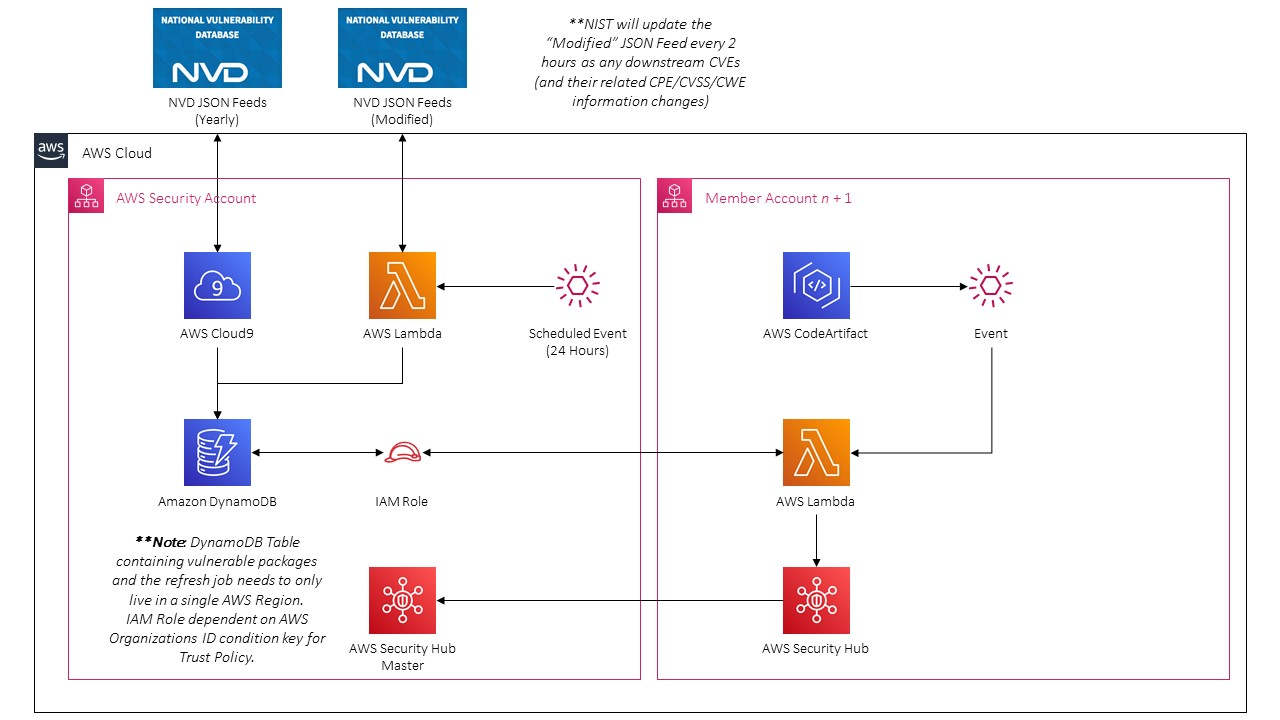
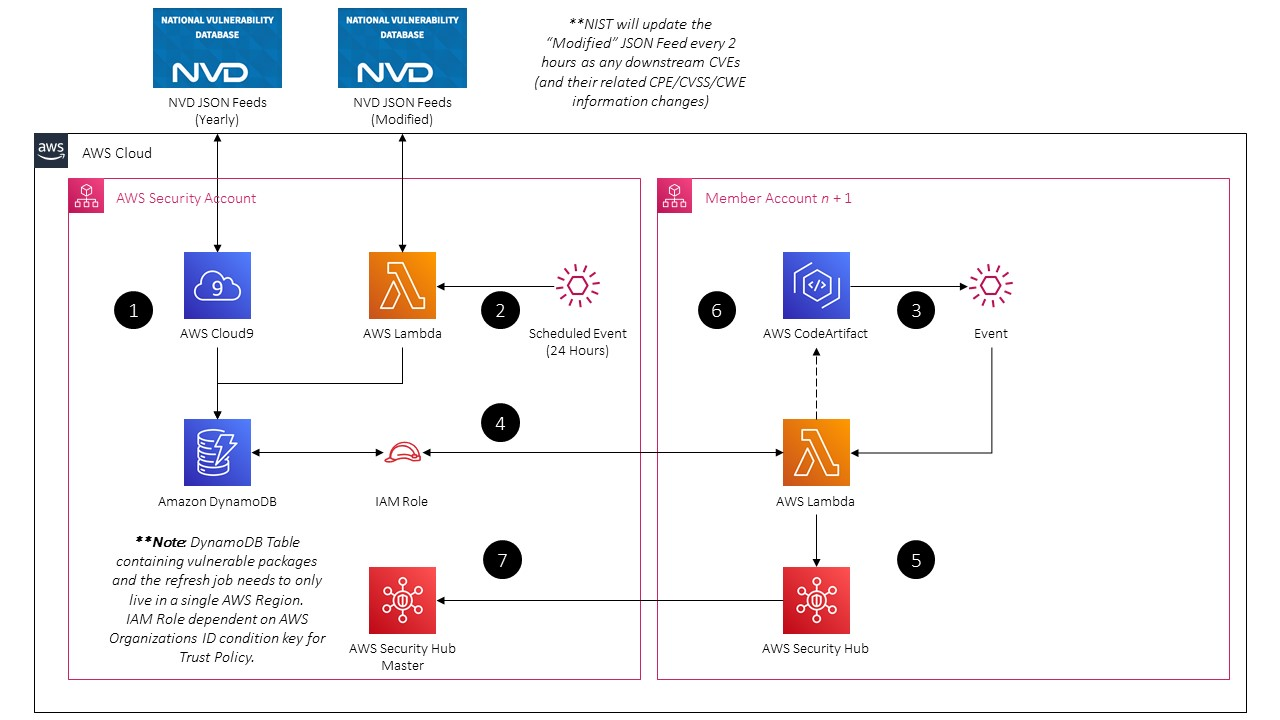
Updating the readme again

diff --git a/README.md b/README.md
@@ -1,10 +1,23 @@
-# CodeArtifactVulnScanner
+# CodeArtifactVulnScanner (OpenCAVS)
 
-AWS native Static Application Security Testing (SAST) utility to find and eradicate vulnerable packages stored in AWS CodeArtifact. Built for real-time and periodic mulit-Account/multi-Region action.
+AWS native Static Application Security Testing (SAST) utility to find and eradicate vulnerable software packages stored in AWS CodeArtifact. Built for both real-time distributed and centralized deployments.
 
 ## Table of Contents
 
-TODO: Implement
+TODO: Fix Links
+
+- Synopsis
+- Solution Architecture
+  - Centralized Deployment (Single-Account / Single-Region)
+  - Distributed Deployment (Multi-Account / Multi-Region)
+- Description
+- Limitations & Caveats
+- Prerequisites
+- Centralized CodeArtifact Setup (Single-Account / Single-Region)
+- Distributed CodeArtifact Setup (Multi-Account / Multi-Region)
+- FAQ
+- Contributing
+- License
 
 ## Synopsis
 
@@ -28,17 +41,33 @@ TODO: Add Steps
 
 ![Distributed Architecture](./screenshots/distributed-repository-architecture.jpg)
 
+The following steps describe the event flows for a Distributed setup. The **Security** Account note describes the AWS Account you have the DynamoDB Table and Organization-wide IAM Role deployed to. The **Member** Account note represents many downstream Accounts in many Regions where the CloudWatch Event and Lambda Functions to detect pushes and updates to CodeArtifact are located.
+
+1. (**Security Account**) A one-time data load of all yearly NVD JSON Feed files is performed. All files are downloaded, unzipped, parsed, and loaded sequentially and the files destroyed after the setup script runs. **Note:** Ensure you have at least 1GB free on your storage volume to account for the files.
+
+2. (**Security Account**) Every 24 hours an Amazon EventBridge Scheduled Rule will invoke a Lambda Function that will downloaded the `Modified` NVD JSON Feed, unzip, parse and load items into a DyanmoDB Table. The key schema of the DynamoDB Table will ensure that updates will be overwrite their pre-existing entries, any unique combination of a Package Name, Package Version, and CVE ID will be added as a new item.
+
+3. (**Member Account**) Upon new software packages being pushed to (or updated within) CodeArtifact, an EventBridge Event will invoke a Lambda Function that will parse information about the software package, the Repository information, and other AWS-specific metadata from the Event payload.
+
+4. (**Member Account**) / (**Security Account**) The Lambda Function invoked in Step 3 will attempt to Assume a Role in the Security Account which will give it permissions to `Scan()` the DynamoDB Table to retrieve information about the Package and associated vulnerability metadata.
+
+5. (**Member Account**) If a software vulnerability is found, a finding containing information about the CVE, CVSS metadata, the software, and the owning Repository is created in the Member Account's Security Hub tenant.
+
+6. (**Member Account**) If configured, the Purging Engine within the Lambda Function invoked in Step 3 will remove the vulnerable package from CodeArtifact and an Informational finding will be created in Security Hub noting this.
+
+7. (**Security Account**) All findings (in their Home Region) are pushed transparently into the Security Hub Master account. You can use this to collect all information about purged packages and vulnerable software in your organization.
+
 TODO: Add Steps
 
 ## Description
 
-This project is an attempt at building a SAST / SCA utility meant for usage with [AWS CodeArtifact](https://docs.aws.amazon.com/codeartifact/latest/ug/welcome.html), a fully managed artifact repository service used with popular build tools and package managers such as NuGet, Maven, Gradle, npm, yarn, pip, and twine. With CodeArtifact, you can centrally store software packages to increase your resilience and software supply chain issues, vulnerabilities, reduce latency or availability concerns due to upstream repository issues, and/or provide a central repository of approved software (by license, etc.).
+OpenCAVS is an attempt at building a SAST / SCA utility meant for usage with [AWS CodeArtifact](https://docs.aws.amazon.com/codeartifact/latest/ug/welcome.html), a fully managed artifact repository service used with popular build tools and package managers such as NuGet, Maven, Gradle, npm, yarn, pip, and twine. With CodeArtifact, you can centrally store software packages to increase your resilience and software supply chain issues, vulnerabilities, reduce latency or availability concerns due to upstream repository issues, and/or provide a central repository of approved software (by license, etc.).
 
-While there can be many benefits of a centralized (by Organization, Account, or Region) code package repository, one area where AWS is gapping in is a built-in ability to assess vulnerabilities. At the time of this project being started (14 JAN 2021) there were not any commercial offerings known to the author, nor any other open-source tools, and this project attempts to fill that gap. Using native AWS Serverless tools such as DynamoDB, Lambda, and EventBridge, this solution can perform real-time software vulnerability analysis by comparing a package version against a list of vulnerable software provided by the NVD.
+While there can be many benefits of a centralized (by Organization, Account, or Region) code package repository, one area where AWS is gapping in is a built-in ability to assess vulnerabilities. At the time of OpenCAVS being started (14 JAN 2021) there were not any commercial offerings known to the author, nor any other open-source tools, and OpenCAVS attempts to fill that gap. Using native AWS Serverless tools such as DynamoDB, Lambda, and EventBridge, this solution can perform real-time software vulnerability analysis by comparing a package version against a list of vulnerable software provided by the NVD.
 
-To support users of any size, two deployment models will be offered, the *Centralized* model is meant to support CodeArtifact Domains and Repositories within a single Account and Region that may be used to support many different AWS Accounts (or mulit-tenant workloads across various VPCs/Subnets). The *Distributed* model is meant to support any number of AWS Accounts, AWS Regions, and CodeArtifact Domains and Repositories. In the *Distributed* model the vulnerable software packages will be maintained in a central security Account with an Assumable Role that "Trusts" you entire AWS Organization - in the *Centralized* model the vulnerable software packages will be maintained in the same Accounts and Regions you deploy the solution to. DynamoDB is used as the datastore due to the direct AWS Data APIs available, cheap cost, low overhead, and low latency (up to [3000 Read Consumption Units](https://docs.aws.amazon.com/amazondynamodb/latest/developerguide/Limits.html#default-limits-throughput-capacity-modes) (RCUs) before needing to use a [DynamoDB Accelerator](https://docs.aws.amazon.com/amazondynamodb/latest/developerguide/DAX.html) (DAX) cluster).
+To support users of any size, two deployment models will be offered, the *Centralized* model is meant to support CodeArtifact Domains and Repositories within a single Account and Region that may be used to support many different AWS Accounts (or multi-tenant workloads across various VPCs/Subnets). The *Distributed* model is meant to support any number of AWS Accounts, AWS Regions, and CodeArtifact Domains and Repositories. In the *Distributed* model the vulnerable software packages will be maintained in a central security Account with an Assumable Role that "Trusts" you entire AWS Organization - in the *Centralized* model the vulnerable software packages will be maintained in the same Accounts and Regions you deploy the solution to. DynamoDB is used as the datastore due to the direct AWS Data APIs available, cheap cost, low overhead, and low latency (up to [3000 Read Consumption Units](https://docs.aws.amazon.com/amazondynamodb/latest/developerguide/Limits.html#default-limits-throughput-capacity-modes) (RCUs) before needing to use a [DynamoDB Accelerator](https://docs.aws.amazon.com/amazondynamodb/latest/developerguide/DAX.html) (DAX) cluster).
 
-An optional Purging Engine will be provided for both deployment models that can remove package versions from CodeArtifact based on various inputs such as CVSSv2.0 Base Score or Severity. This can provide assurance than vulnerable software packages will be removed from your central repositories - though this is a Reponse function and not a Preventative control.
+An optional Purging Engine will be provided for both deployment models that can remove package versions from CodeArtifact based on various inputs such as CVSSv2.0 Base Score or Severity. This can provide assurance than vulnerable software packages will be removed from your central repositories - though this is a Response function and not a Preventative control.
 
 In the future, it is planned to add various other features such as Business Intelligence (BI) reporting to monitor vulnerabilities, vendors, licenses, and software version derivations. Other planned features include the ability to scan package dependencies or purge packages based on their license and/or dependencies (**Note:** dependency and license information is populated by CodeArtifact).
 
@@ -50,7 +79,7 @@ This section is meant to list out any general warnings or caveats with this solu
 
 - Due to the fact that *all* software packages is parsed (by virtue of ingested the entire NVD) - CVSSv2.0 is used for Vector Strings, Scoring, and Severity. Older CVEs, and thus packages, do not have CVSSv3.1 scoring information. This may be added in at a later date - but will require modifications to the Purging Engine.
 
-- Due to using "hacky" methods of parsing Vendors, Package Names, and Package Versions from the CPE URI information within the NVD JSON Feeds - some values that do not format to a nice `package-name.package-version` format (e.g. `python-requests:2.2`) are dropped. For instance, the bulk load and continual loads will drop a value such as `solaris:*`.
+- Due to using "hacky" methods of parsing Vendors, Package Names, and Package Versions from the CPE URI information within the NVD JSON Feeds - some values that do not format to a nice `package-name.package-version` format (e.g., `python-requests:2.2`) are dropped. For instance, the bulk load and continual loads will drop a value such as `solaris:*`.
 
 - I ***assume*** There may be mismatches between package names in CPE and what they are called by the vendor - and thus you may either get false positives or undetected vulnerabilities! There is way too much data to analyze to determine how extensive this is in reality.
 
@@ -62,83 +91,100 @@ This section is meant to list out any general warnings or caveats with this solu
 
 ## Prerequisites
 
-TODO
+- A Cloud9 IDE running Ubuntu 18.04LTS with the below IAM Policy attached as an Instance Profile for the underlying EC2 Instance. For more information on setting up a Cloud9 IDE see [here](https://docs.aws.amazon.com/cloud9/latest/user-guide/setting-up.html), and for information on attaching an IAM Instance Profile see [here](https://docs.aws.amazon.com/AWSEC2/latest/UserGuide/iam-roles-for-amazon-ec2.html).
+
+For the Distributed Deployment Model, you will need the following in addition to the above.
+
+- An IAM Role setup for CloudFormation Stack Sets deployments with [Trusted Access for AWS Organizations](https://docs.aws.amazon.com/AWSCloudFormation/latest/UserGuide/stacksets-orgs-enable-trusted-access.html).
+
+- A list of AWS Account IDs or Organizational Unit (OU) IDs to deploy the Stack Set into.
+
+- Your AWS Organization ID used for the Trust Policy Condition.
 
 ## Centralized CodeArtifact Setup (Single-Account / Single-Region)
 
 TODO
 
 ## Distributed CodeArtifact Setup (Multi-Account / Multi-Region)
-
-TODO
+ 
 
 ## FAQ
 
-#### 1. What does this solution do?
+NOTE TO SELF: Rearrange and add final numbers to FAQ when done...
 
-This project provides a mechanism with which to find every known vulnerable software package and their associated vulnerabilities and vulnerability metadata from the NIST NVD and store them within DynamoDB. EventBridge and Lambda are utilized to perform event-driven vulnerability analysis of software packages being pushed into or updated with an AWS CodeAritfact Repository. Optionally, you can configure this solution to purge vulnerable packages in CodeArtifact based on a specific CVSS score or stated severity level. This solution can be deployed for a centralized CodeArtifact model or to support a distributed model across many Accounts, Regions, and CodeArtifact Repositories.
+#### What does this solution do?
 
-#### 2. Where is information about software packages and their associated vulnerabilities sourced from?
+OpenCAVS provides a mechanism with which to find every known vulnerable software package and their associated vulnerabilities and vulnerability metadata from the NIST NVD and store them within DynamoDB. EventBridge and Lambda are utilized to perform event-driven vulnerability analysis of software packages being pushed into or updated with an AWS CodeArtifact Repository. Optionally, you can configure this solution to purge vulnerable packages in CodeArtifact based on a specific CVSS score or stated severity level. This solution can be deployed for a centralized CodeArtifact model or to support a distributed model across many Accounts, Regions, and CodeArtifact Repositories.
 
-All vulnerability, software package, and associated metadata (references, CVSS scoring information, etc.) is parsed from NIST's NVD JSON Feeds. A one-time load of all Yearly feeds is performed and a Lambda Function invoked on a schedule will perform additions or updates to files based on a specialized `Modified` feed from the NVD JSON Feeds.
+#### Where is information about software packages and their associated vulnerabilities sourced from?
 
-#### 3. What vulnerability metadata is provided within this solution?
+All vulnerability, software package, and associated metadata (references, CVSS scoring information, etc.) is parsed from NIST's NVD JSON Feeds. A one-time load of all Yearly feeds is performed, and a Lambda Function invoked on a schedule will perform additions or updates to files based on a specialized `Modified` feed from the NVD JSON Feeds.
+
+#### What is the process flow for evaluating vulnerabilities? How does the solution account for Software Package Versions that have Patch or Beta versions noted (e.g., 1.22.1.4?)?
+
+TODO: Process Flow
+
+#### What vulnerability metadata is provided within this solution?
 
 The ID of the CVE, the first reference link, a description, the CVSSv2.0 Vector String, CVSSv2.0 Base Score, CVSSv2.0 Severity Label, the Package Name, Package Version, and Package Version information are parsed from the NVD JSON Feeds. In the future additional metadata such as CVSSv3.1 scoring information may be included.
 
-#### 4. How are software vulnerabilities detected?
+#### How are software vulnerabilities detected?
 
 Upon invocation from Amazon EventBridge, a Lambda Function will perform a `GetItem` API call against the DynamoDB table that contains information on all vulnerable software. If there is a match, the CVE ID and related CVSSv2.0 metadata is returned to Lambda. If there is not a match no further actions will be taken.
 
-#### 5. Where is information about detected software vulnerabilities stored?
+#### Where is information about detected software vulnerabilities stored?
 
 Upon detection of a vulnerable software package a finding will be created in AWS Security Hub that will contain information about the vulnerable software package, which CodeArtifact Repository it was contained in, and other helpful information such as the Account, Region, time seen, resource ARNs and related vulnerability metadata.
 
-#### 6. Can I automatically remove vulnerable packages? How does that work?
+#### Can I automatically remove vulnerable packages? How does that work?
 
-Yes. If configured within the setup script for either deployment option, the Lambda function that performs vulnerability analysis of the software packages will optionally remove (aka Purge) the software package version from it's upstream CodeArtifact Repository by using the CodeArtifact [`DisposePackageVersions`](https://boto3.amazonaws.com/v1/documentation/api/latest/reference/services/codeartifact.html#CodeArtifact.Client.dispose_package_versions) API.
+Yes. If configured within the setup script for either deployment option, the Lambda function that performs vulnerability analysis of the software packages will optionally remove (aka Purge) the software package version from its upstream CodeArtifact Repository by using the CodeArtifact [`DisposePackageVersions`](https://boto3.amazonaws.com/v1/documentation/api/latest/reference/services/codeartifact.html#CodeArtifact.Client.dispose_package_versions) API.
 
-#### 7. How can I keep track of software packages that were removed via automation?
+#### What is the process flow for the Purging Engine?
+
+TODO: Process Flow
+
+#### How can I keep track of software packages that were removed via automation?
 
 If Purging is configured, these events are also sent to Security Hub as informational findings. You can use the built-in visualization functionality, Insights, in Security Hub or use a BI tool such as Amazon QuickSight to keep track of these events and software packages to provide as data points to development teams so they can push changes to their applications' requirements.
 
-#### 8. How can I report on software vulnerabilities contained in CodeArtifact?
+#### How can I report on software vulnerabilities contained in CodeArtifact?
 
-You can use Security Hub Insights or perform ingestion into another BI tool from Security Hub. In the future, an integration with Amazon QuickSight may be developed - in the meantime you can use this example from ElectricEye-Reports, an open-source AWS-native cloud security posture management (CSPM) tool by this project's author.
+You can use Security Hub Insights or perform ingestion into another BI tool from Security Hub. In the future, an integration with Amazon QuickSight may be developed - in the meantime you can use this example from ElectricEye-Reports, an open-source AWS-native cloud security posture management (CSPM) tool by OpenCAVS's author.
 
-#### 9. Will this solution work with CodeCommit?
+#### Will this solution work with CodeCommit?
 
-No, not as designed. Any modifications to this solution for purpose of scanning dependencies within CodeCommit are out of scope, but could perhaps be added in scope in the future.
+No, not as designed. Any modifications to this solution for purpose of scanning dependencies within CodeCommit are out of scope but could perhaps be added in scope in the future.
 
-#### 10. Why is CVSSv2.0 used instead of CVSSv3.1?
+#### Why is CVSSv2.0 used instead of CVSSv3.1?
 
 Due to the age of CVEs, some existed before CVSSv3.1 was released. NIST does not appear to perform retrospective updates of the CVSS Scoring and so CVSSv2.0 is used as the primary vulnerability severity assessment. In the future CVSSv3.1 with be added as another bit of metadata to be collected.
 
-#### 11. Can I perform vulnerability analysis of package dependencies?
+#### Can I perform vulnerability analysis of package dependencies?
 
 This feature is out of scope for this solution for the time being. In the future another extension will be included within Lambda to detect vulnerabilities (and purge the package) based on dependencies.
 
-#### 12. Can I report on package licenses? Can I purge based on licenses?
+#### Can I report on package licenses? Can I purge based on licenses?
 
 Not at this time to either part of the question. In the future, this feature will be added.
 
-#### 13. Can I used this solution with Artifactory or another package repository?
+#### Can I use this solution with Artifactory or another package repository?
 
 Not as configured, you should probably use [JFrog XRAY](https://jfrog.com/xray/) though, if you're already setting your money on fire to use Artifactory you obviously don't care about it to begin with.
 
-#### 14. Can I use this solution to find vulnerable packages on my Operating System?
+#### Can I use this solution to find vulnerable packages on my Operating System?
 
-Theoretically, yes. If you had EC2 Instances managed by Systems Manager you could use the Inventory APIs to retrieve software installations and detect if they have any vulnerabilities. You could do similar on container images as well using utilities such as the Python `docker` module. That said, there are built-in vulnerability scanning utilities built into AWS Systems Manager or you can use Amazon Inpsector. Amazon Elastic Container Registry (ECR) also has a built-in vulnerability scanner based on ClairOS, but there are other open-source projects such as Trivy or Anchore that fit the container vulnerability scanning utility. It is also important to note that any Operating System or Hardware related vulnerabilities are not ingested into DynamoDB with respect to the intended scope of this project.
+Theoretically, yes. If you had EC2 Instances managed by Systems Manager, you could use the Inventory APIs to retrieve software installations and detect if they have any vulnerabilities. You could do similar on container images as well using utilities such as the Python `docker` module. That said, there are built-in vulnerability scanning utilities built into AWS Systems Manager or you can use Amazon Inspector. Amazon Elastic Container Registry (ECR) also has a built-in vulnerability scanner based on ClairOS, but there are other open-source projects such as Trivy or Anchore that fit the container vulnerability scanning utility. It is also important to note that any Operating System or Hardware related vulnerabilities are not ingested into DynamoDB with respect to the intended scope of OpenCAVS.
 
-#### 15. How is vulnerability information maintained?
+#### How is vulnerability information maintained?
 
-Every 24 hours an Amazon EventBridge Scheduled Rule will invoke a Lambda Function that will download the `Modified` NVD JSON Feed and add the information into DynamoDB. Existing items will be overwritten based on their Software Package and CVE ID pair, new items will just be inserted like a regular item into the table. NIST maintains a 2 hour SLA to push any updates into the `Modified` feed based on if there are actually any changes. These changes may not include ones that are relevant to this solution (such as Common Weaknesses and Exploits (CWE) or reference metadata).
+Every 24 hours an Amazon EventBridge Scheduled Rule will invoke a Lambda Function that will download the `Modified` NVD JSON Feed and add the information into DynamoDB. Existing items will be overwritten based on their Software Package and CVE ID pair; new items will just be inserted like a regular item into the table. NIST maintains a 2-hour SLA to push any updates into the `Modified` feed based on if there are actually any changes. These changes may not include ones that are relevant to this solution (such as Common Weaknesses and Exploits (CWE) or reference metadata).
 
-#### 16. I want to export the package vulnerability information, how can I do that?
+#### I want to export the package vulnerability information; how can I do that?
 
-A Python script is provided in the `/exports` directory which will read out the entire contents of the DyanmoDB table and write them into JSON, CSV or both. The script accepts a positional argument of either `JSON`, `CSV`, or `BOTH` via `sys.argv` (e.g. `python3 packageExport.py CSV`) and will create the correspond file(s).
+A Python script is provided in the `/exports` directory which will read out the entire contents of the DyanmoDB table and write them into JSON, CSV or both. The script accepts a positional argument of either `JSON`, `CSV`, or `BOTH` via `sys.argv` (e.g., `python3 packageExport.py CSV`) and will create the correspond file(s).
 
-#### 17. How much does this solution cost to run?
+#### How much does this solution cost to run?
 
 It is dependent on how many Regions and Accounts you have it deployed - but for a single load of DynamoDB it will cost $XXXXX due to Write Consumption Units (WCU) used over a period of time.
 
